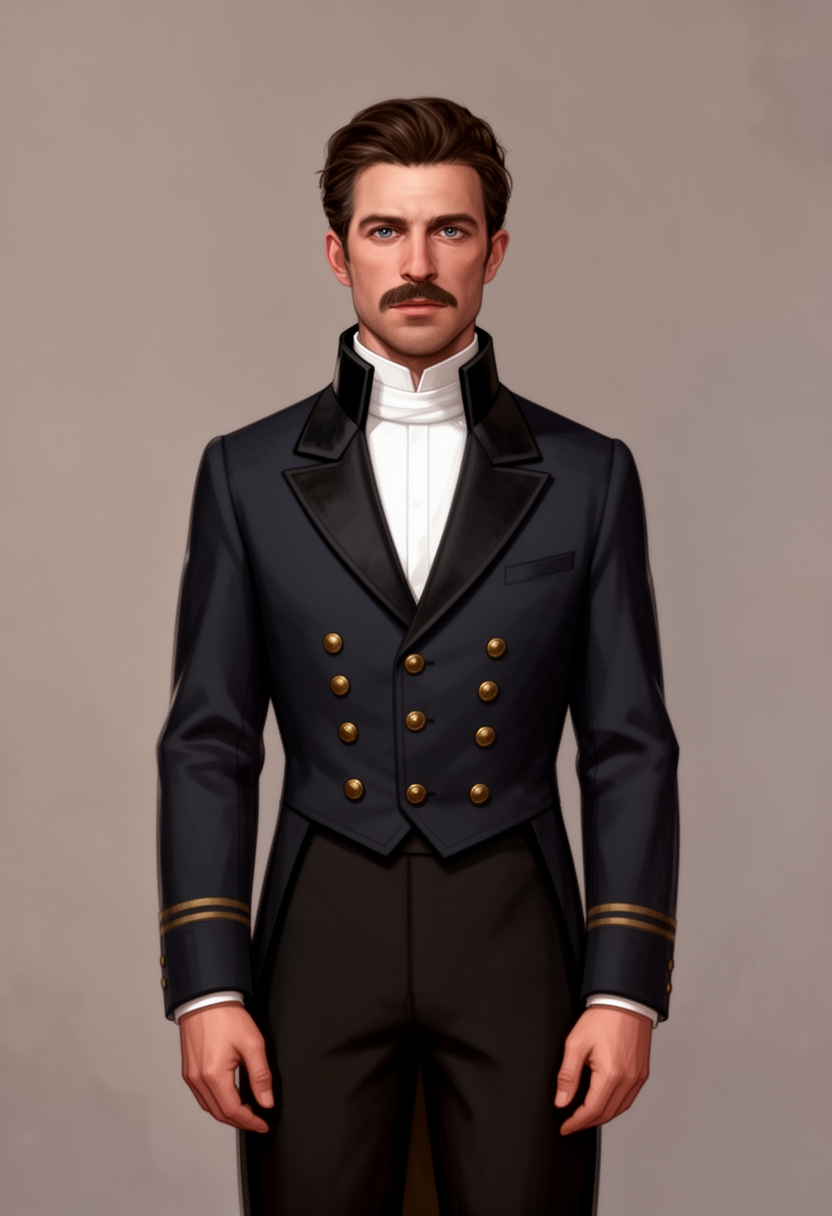
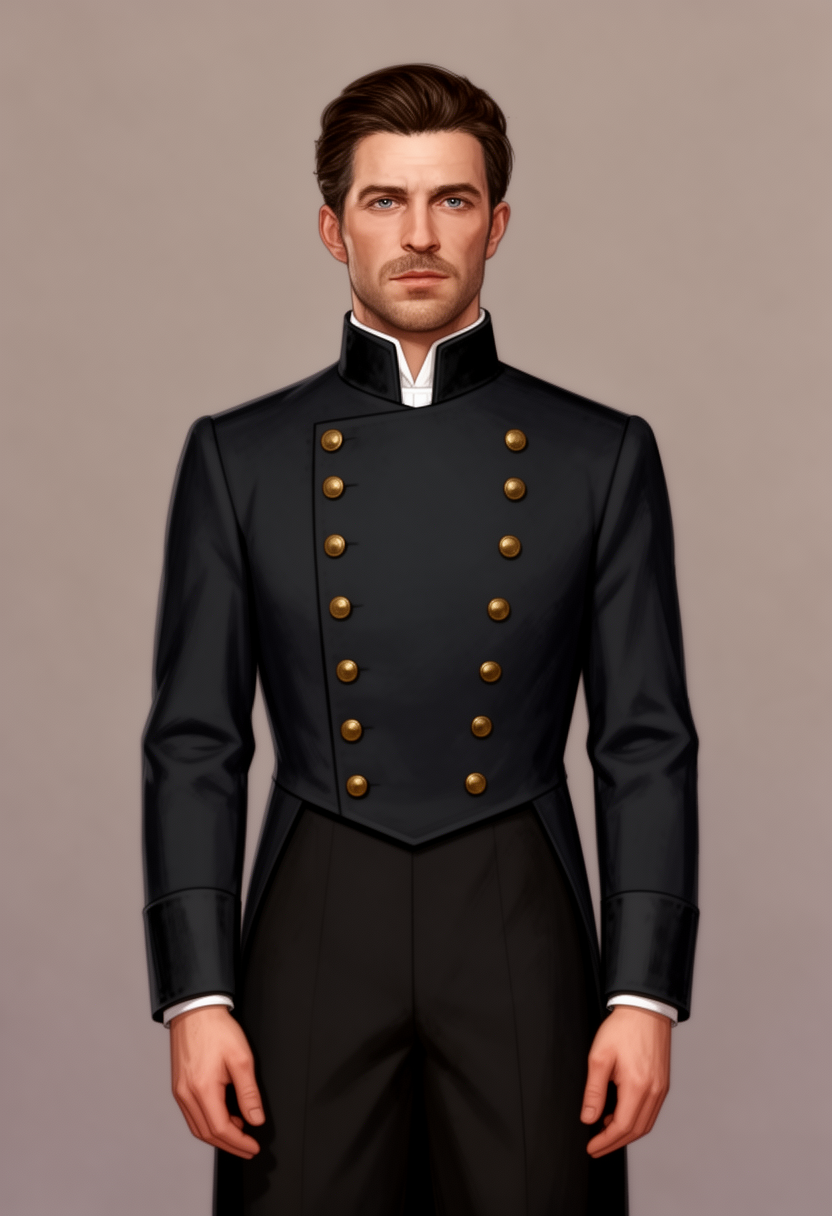
character image rework

diff --git a/docs/next_tasks.md b/docs/next_tasks.md
@@ -57,6 +57,8 @@ THE WHol stuff can be decided at the end of the writing
 
 ## Assets & artistic Tasks
 
+MORE woods image, one for picnic, one for dead doctor?
+
 NEED a version unmaske of broken for when he is downstairs. I think I have it
 
 PROBLEM, **PSYCHIC** death in attic during the day not as scary as during the night. Change that?